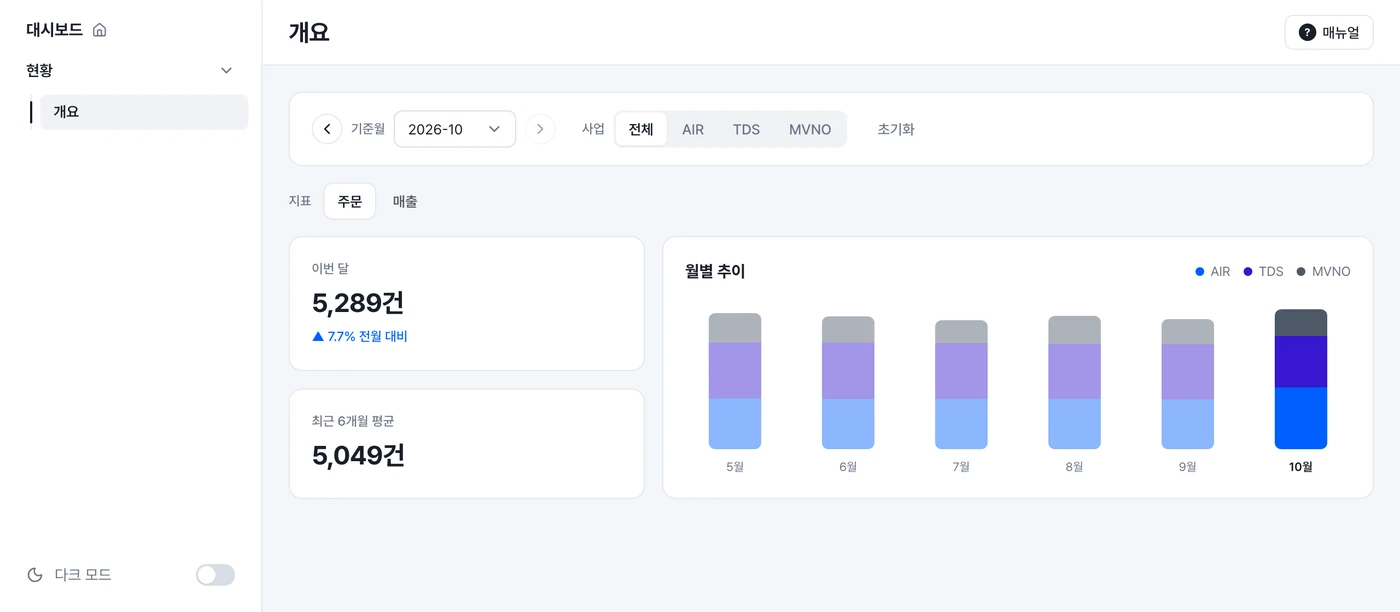
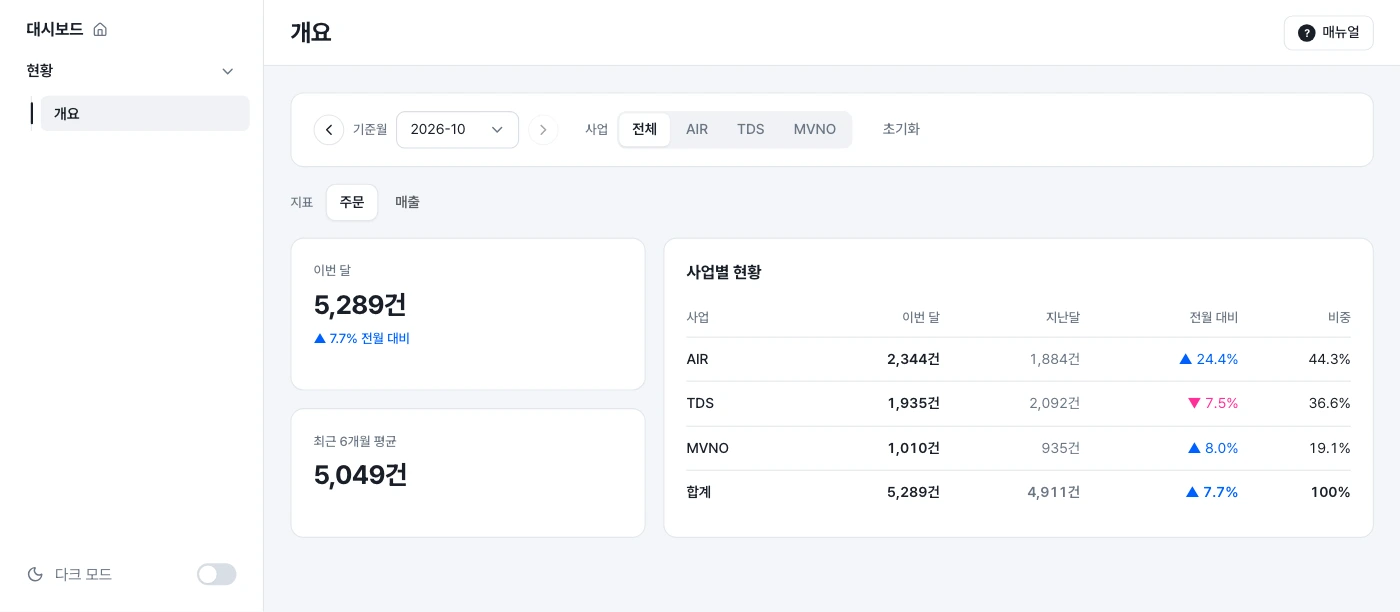
feat: the intro's third step shows a text-only screen, and a fourth builds a chart dashboard
Step 3's shot is the overview with its filters, tabs, cards and a table
by business, without a chart, the menu holding only 개요. Step 4 asks
for a dashboard of order trends and channel and plan shares, and shows
the 주문 분석 page built from the kit's charts: the daily trend with the
today and target lines, the online share ring, monthly bars by business,
the plan treemap and the channel list. Both are captures of the sample
app at the earlier shots' size, and the heading counts 네 번의 요청.

diff --git a/apps/hoo/app/page.tsx b/apps/hoo/app/page.tsx
@@ -8,8 +8,8 @@ import {
   SunMoon,
   User,
 } from "lucide-react";
-import Link from "next/link";
 import type { StaticImageData } from "next/image";
+import Link from "next/link";
 import type { ReactNode } from "react";
 import { WORKSPACES, WorkspaceLogo } from "@/components/layout/workspace-logo";
 import { AiInsightTitle } from "@/components/ui/ai-insight";
@@ -21,6 +21,7 @@ import plugin from "../../../plugins/sam-ui/.claude-plugin/plugin.json";
 import { CopyButton } from "./_intro/copy-command";
 import { HeroPreview } from "./_intro/hero-preview";
 import { InstallGuide } from "./_intro/install-guide";
+import dashboardBuilt from "./_intro/shots/dashboard-built.webp";
 import kitInstalled from "./_intro/shots/kit-installed.webp";
 import screenBuilt from "./_intro/shots/screen-built.webp";
 
@@ -92,9 +93,22 @@ const STEPS = [
     ),
     result: {
       image: screenBuilt,
-      alt: "기준월과 사업 필터, 주문 · 매출 탭, 이번 달 · 최근 6개월 평균 카드, 사업별로 쌓은 월별 추이 막대가 있는 개요 화면",
+      alt: "기준월과 사업 필터, 주문 · 매출 탭, 이번 달 · 최근 6개월 평균 카드, 사업별 이번 달 · 지난달 · 전월 대비 · 비중 표가 있는 개요 화면",
       caption:
-        "요청대로 만든 화면: 기준월 · 사업 필터, 주문 · 매출 탭, 이번 달 카드와 사업별 월별 추이",
+        "요청대로 만든 화면: 기준월 · 사업 필터, 주문 · 매출 탭, 이번 달 카드와 사업별 현황 표",
+    },
+  },
+  {
+    title: "차트 대시보드",
+    body: "킷에 든 차트로 추이, 막대, 비중을 한 화면에 그립니다. 툴팁과 색이 같아 차트끼리도 어울립니다.",
+    detail: (
+      <Prompt text="주문 추이와 채널 · 요금제 비중을 차트로 보여 주는 대시보드 만들어줘" />
+    ),
+    result: {
+      image: dashboardBuilt,
+      alt: "일별 주문 추이와 오늘 · 목표선, 온라인 비중 링, 사업별 월간 주문 막대, 요금제별 비중 트리맵, 채널별 주문 막대 목록이 있는 주문 분석 화면",
+      caption:
+        "요청대로 만든 대시보드: 일별 추이, 온라인 비중, 사업별 월간 막대, 요금제 트리맵, 채널별 주문",
     },
   },
 ];
@@ -128,9 +142,9 @@ export default function IntroPage() {
                 대시보드를 첫 화면부터 완성된 모습으로
               </h1>
               <p className="mx-auto mt-5 max-w-2xl break-keep text-[16px] leading-relaxed text-muted-foreground sm:text-[17px]">
-                SAM UI는 대시보드를 위한 React · Tailwind CSS 4 킷입니다.
-                Claude Code 플러그인이 킷을 설치하고 최신으로 유지하며, 새
-                화면도 같은 컴포넌트로 만듭니다.
+                SAM UI는 대시보드를 위한 React · Tailwind CSS 4 킷입니다. Claude
+                Code 플러그인이 킷을 설치하고 최신으로 유지하며, 새 화면도 같은
+                컴포넌트로 만듭니다.
               </p>
               <div className="mt-8 flex flex-wrap justify-center gap-3">
                 <a
@@ -167,7 +181,7 @@ export default function IntroPage() {
         <Section
           eyebrow="사용 방법"
           id="get-started"
-          title="빈 프로젝트에서 완성된 화면까지, 세 번의 요청"
+          title="빈 프로젝트에서 완성된 화면까지, 네 번의 요청"
         >
           <ol className="space-y-4">
             {STEPS.map(({ title, body, detail, result }, i) => (
